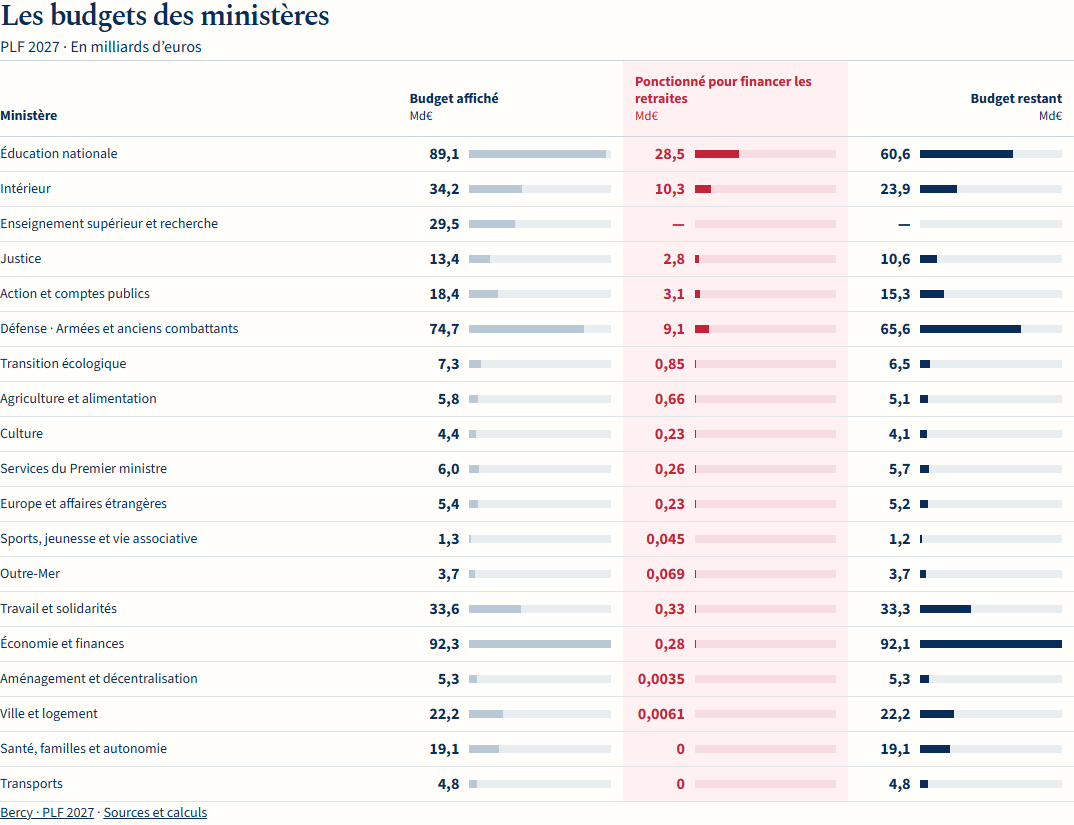
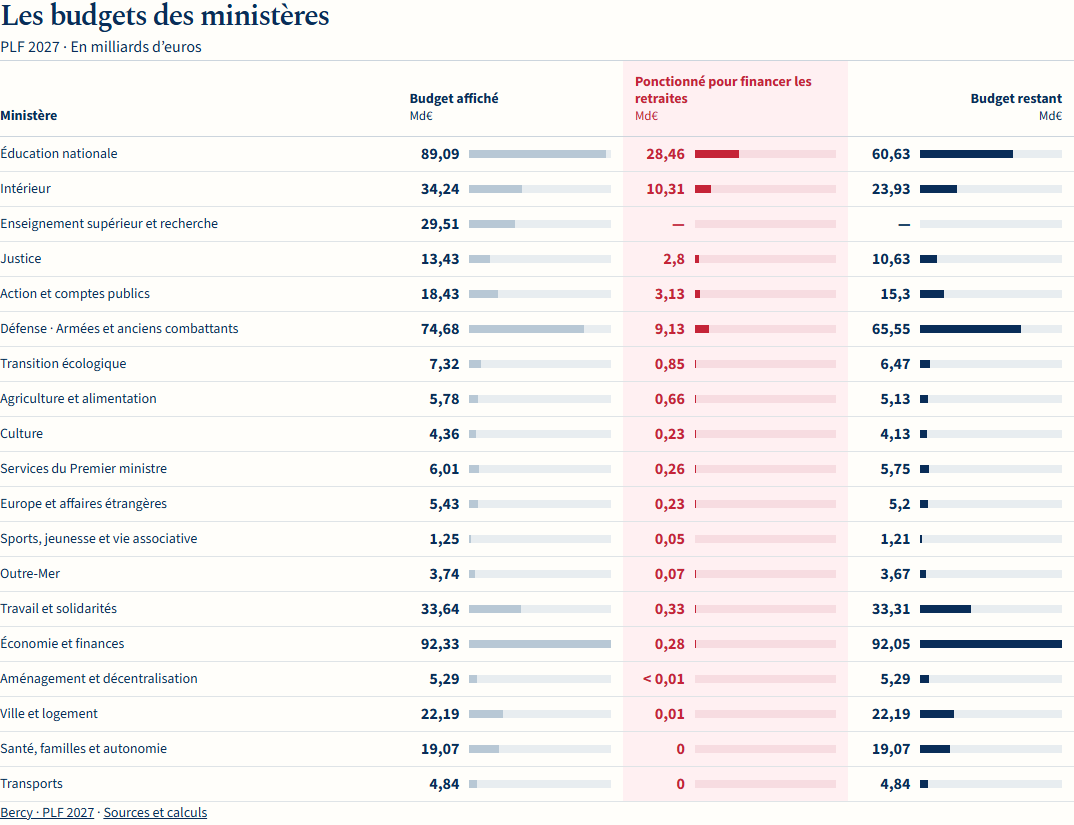
fix(editorial): limiter les montants à deux décimales maximum

diff --git a/site/src/budget-comparison.ts b/site/src/budget-comparison.ts
@@ -9,14 +9,14 @@ export type BudgetComparisonRow = {
 };
 
 function milliards(euros: number): string {
-  if (euros === 0) return '0';
   const value = euros / 1e9;
-  const digits = value >= 1 ? 1 : value >= .1 ? 2 : value >= .01 ? 3 : 4;
-  return new Intl.NumberFormat('fr-FR', { minimumFractionDigits: digits, maximumFractionDigits: digits }).format(value);
+  // A positive amount below the rounding threshold must not look like a true zero.
+  if (value > 0 && value < .005) return '< 0,01';
+  return new Intl.NumberFormat('fr-FR', { maximumFractionDigits: 2 }).format(value);
 }
 
 function amount(euros: number | null): string {
-  return `<span class="budget-comparison__value">${euros === null ? '—' : milliards(euros)}</span>`;
+  return `<span class="budget-comparison__value">${euros === null ? '—' : echapper(milliards(euros))}</span>`;
 }
 
 function cell(euros: number | null, maximum: number, kind: 'budget' | 'retirement' | 'remaining', estimated = false): string {
@@ -25,7 +25,7 @@ function cell(euros: number | null, maximum: number, kind: 'budget' | 'retiremen
     ? `<span class="budget-comparison__spark-fill budget-comparison__spark-fill--${kind}" style="width:${euros / maximum * 100}%"></span>`
     : '';
   const accessible = euros === null ? ' aria-label="Non disponible"' : estimated
-    ? ` data-estimated="true" aria-label="${milliards(euros)} milliards d’euros, ${kind === 'remaining' ? 'budget restant après déduction des cotisations salariales estimées' : 'financement des retraites comprenant des cotisations salariales estimées'}"` : '';
+    ? ` data-estimated="true" aria-label="${echapper(milliards(euros))} milliards d’euros, ${kind === 'remaining' ? 'budget restant après déduction des cotisations salariales estimées' : 'financement des retraites comprenant des cotisations salariales estimées'}"` : '';
   return `<td role="cell" class="budget-comparison__${kind}"${accessible}><span class="budget-comparison__cell">${amount(euros)}<span class="budget-comparison__spark" aria-hidden="true">${fill}</span></span></td>`;
 }
 

diff --git a/site/src/budget-comparison.test.ts b/site/src/budget-comparison.test.ts
@@ -17,7 +17,7 @@ test('La comparaison donne les trois montants en Md€, sans pourcentage', () =>
   assert.doesNotMatch(html, /100 %|≈|budget-comparison__legend/);
   const rounded = budgetComparison([{ label: 'Arrondis', budget: 89.44e9, retirement: 24.46e9 }]);
   assert.match(rounded, /data-remaining-eur="64980000000"/);
-  assert.match(rounded, />65,0<\/span>/); // Subtract euros before rounding each displayed amount.
+  assert.match(rounded, />64,98<\/span>/); // Subtract euros before rounding each displayed amount.
 });
 
 test('Les 19 lignes restent présentes et les barres partagent une échelle absolue', () => {
@@ -35,7 +35,7 @@ test('Une retraite inconnue laisse également le montant après reclassement inc
   const html = budgetComparison([{ label: 'Ministère', budget: 12e9, retirement: null }]);
   assert.equal((html.match(/aria-label="Non disponible"/g) ?? []).length, 2);
   assert.equal((html.match(/class="budget-comparison__spark-fill /g) ?? []).length, 1);
-  assert.match(html, /12,0/);
+  assert.match(html, />12<\/span>/);
 });
 
 test('Les estimations restent accessibles sans signe ni légende ajoutée', () => {
@@ -48,12 +48,13 @@ test('Les estimations restent accessibles sans signe ni légende ajoutée', () =
   assert.doesNotMatch(html, /≈|budget-comparison__legend/);
 });
 
-test('Les petits montants restent lisibles et un montant positif ne devient jamais zéro', () => {
+test('Deux décimales maximum sans zéros ajoutés, sans confondre petit montant et zéro', () => {
   const html = budgetComparison([{ label: 'Petit ministère', budget: 20e6, retirement: 1e6 }, { label: 'Sans retraite', budget: 1e9, retirement: 0 }]);
-  assert.match(html, /0,020/);
-  assert.match(html, /0,0010/);
+  assert.match(html, />0,02<\/span>/);
+  assert.match(html, />&lt; 0,01<\/span>/);
   assert.match(html, /class="budget-comparison__value">0<\/span>/);
   assert.doesNotMatch(html, />0,00</);
+  assert.doesNotMatch(html, /\d,\d{3}/);
 });
 
 test('Les montants impossibles sont rejetés et les libellés échappés', () => {

diff --git a/site/src/reclassement-bercy.test.ts b/site/src/reclassement-bercy.test.ts
@@ -14,7 +14,7 @@ test('les budgets et retraites sont monétaires, sourcés et réconciliés',()=>
   if(m.retraites!==null){assert.ok(m.retraites>=0 && m.retraites<=m.budget);assert.equal(m.retraites+(m.budget-m.retraites),m.budget);}
  }
  const html=renduReclassementBercy();assert.match(html,/Md€/);assert.match(html,/Défense/);
- assert.match(html,/89,1/);assert.match(html,/28,5/);assert.match(html,/60,6/);
+ assert.match(html,/89,09/);assert.match(html,/28,46/);assert.match(html,/60,63/);
  assert.equal((html.match(/class="budget-comparison"/g)??[]).length,1);
  assert.equal((html.match(/class="budget-comparison__row"/g)??[]).length,19);
  assert.match(html,/Les budgets des ministères/);assert.match(html,/PLF 2027 · En milliards d’euros/);

diff --git a/docs/bercy-tableau-compact.md b/docs/bercy-tableau-compact.md
@@ -18,6 +18,10 @@ aucun remplissage ; une retraite inconnue laisse aussi le reste inconnu.
 
 Les montants ne changent pas : crédits de paiement prévus au PLF 2027,
 contributions employeur issues des PAP et cotisations salariales estimées.
+Depuis la correction demandée le 20 octobre, l’affichage comporte deux décimales
+maximum, sans zéros ajoutés. Un montant positif qui s’arrondirait à zéro est
+affiché « < 0,01 » Md€, pour le distinguer d’un vrai zéro. Les barres et les sommes
+restent calculées à partir des euros exacts.
 Le retrait des signes ≈ est un choix de présentation ; les drapeaux d’estimation,
 les libellés accessibles et les explications des sources restent disponibles.
 Le mot « ponctionné » est le libellé éditorial retenu pour cette ventilation de
